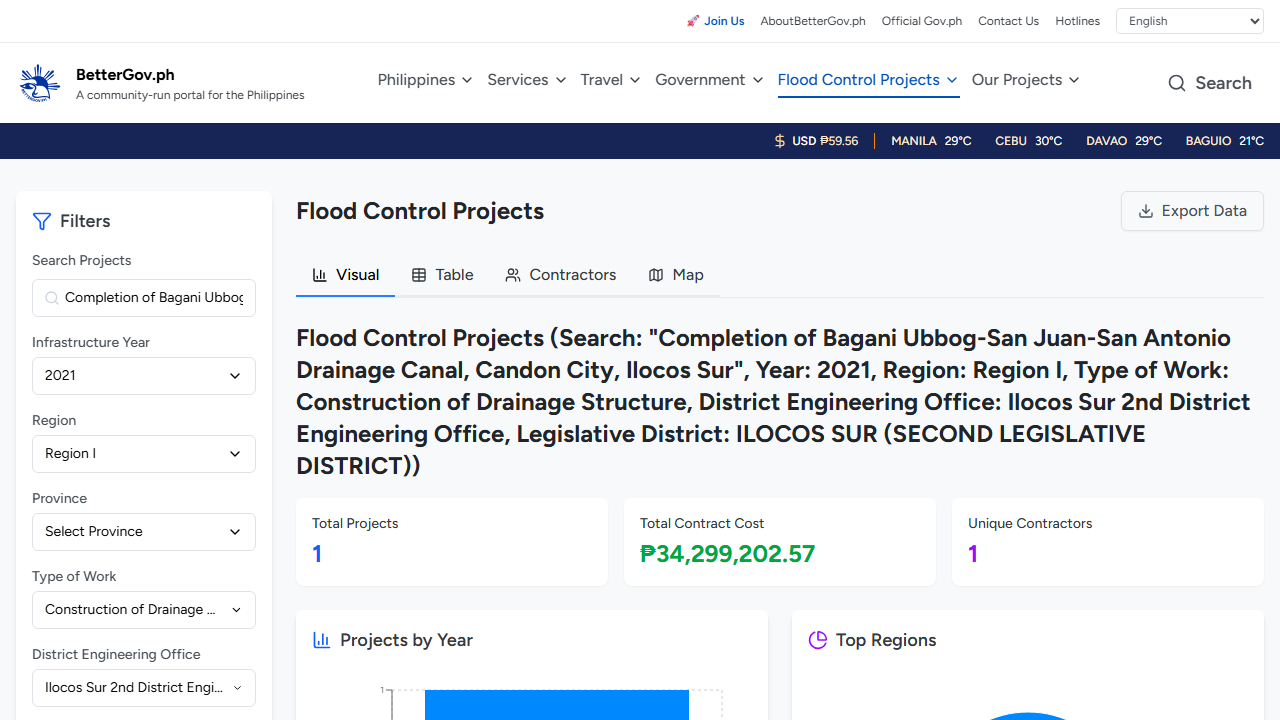
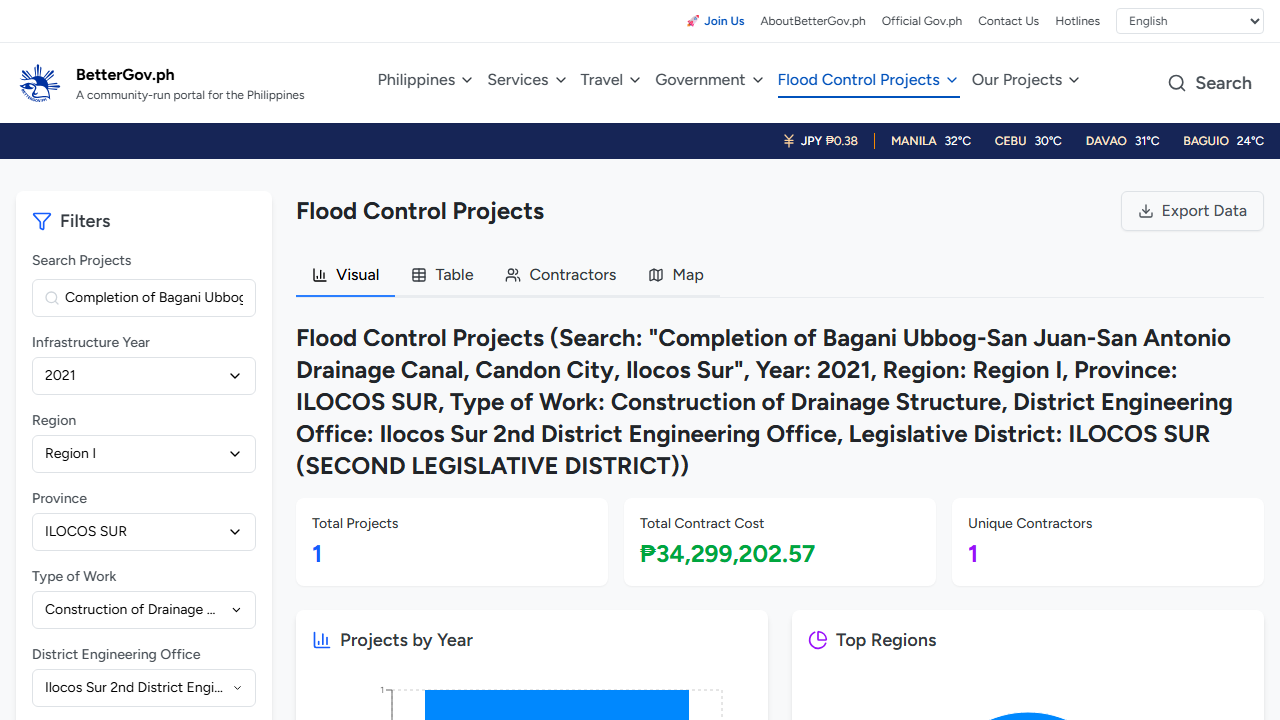
as of LCS4E8

diff --git a/tests/bgov-fcp.spec.ts b/tests/bgov-fcp.spec.ts
@@ -1,6 +1,7 @@
 import { test, expect } from '@playwright/test'
-import { FCP } from '../pages/bgov-fcp'
+import { FCP_Visual } from '../pages/bgov-fcp-visual';
 import { BGovHome } from '../pages/bgov-home';
+import { FCP_Table } from '../pages/bgov-fcp-table';
 
 test.describe('Flood Control Projects E2E Tests', () => {
     test.beforeEach(async ({ page }) => {
@@ -17,7 +18,7 @@ test.describe('Flood Control Projects E2E Tests', () => {
             Test Title: Verify end URL and tabs of BGovPH's Flood Control Projects Page
             Pre-requisites: none
         */
-        const fcp = new FCP(page);
+        const fcp = new FCP_Visual(page);
         const testID = testInfo.title
 
         // Assertion: URL ends with "/flood-control-projects"
@@ -41,7 +42,7 @@ test.describe('Flood Control Projects E2E Tests', () => {
             Test Title: Verify Visual tab filters of BGovPH's Flood Control Projects Page
             Pre-requisites: none
         */
-        const fcp = new FCP(page);
+        const fcp = new FCP_Visual(page);
         const testID = testInfo.title
 
         // Navigate to Visual Tab
@@ -103,7 +104,6 @@ test.describe('Flood Control Projects E2E Tests', () => {
             path: `test-evidences/${testID}/fcp-filters-legislative-district.png`
         });
     });
-    // TODO: testing filters at Table Tab
     test('FCP-TC003', async ({ page }, testInfo) => {
         /* 
             Date Created: March 20, 2026
@@ -112,7 +112,7 @@ test.describe('Flood Control Projects E2E Tests', () => {
             Test Title: Verify Table tab filters of BGovPH's Flood Control Projects Page
             Pre-requisites: none
         */
-        const fcp = new FCP(page);
+        const fcp = new FCP_Table(page);
         const testID = testInfo.title
 
         // Navigate to Table Tab
@@ -189,11 +189,12 @@ test.describe('Flood Control Projects E2E Tests', () => {
                 Legislative District: ILOCOS SUR (SECOND LEGISLATIVE DISTRICT)
         */
 
-        const fcp = new FCP(page)
+        const fcp = new FCP_Visual(page)
         const testID = testInfo.title
         const project = 'Completion of Bagani Ubbog-San Juan-San Antonio Drainage Canal, Candon City, Ilocos Sur'
         const year = 2021
         const region = 'Region I'
+        const province = 'ILOCOS SUR'
         const work = 'Construction of Drainage Structure'
         const deo = 'Ilocos Sur 2nd District Engineering Office'
         const district ='ILOCOS SUR (SECOND LEGISLATIVE DISTRICT)'
@@ -204,6 +205,7 @@ test.describe('Flood Control Projects E2E Tests', () => {
         await fcp.searchProjectsField.fill(project)
         await fcp.selectItemFromDropdown(fcp.infrastructureYearDropdown, String(year))
         await fcp.selectItemFromCombobox(fcp.regionDropdown, region)
+        await fcp.selectItemFromCombobox(fcp.provinceDropdown, province)
         await fcp.selectItemFromCombobox(fcp.typeOfWorkDropdown, work)
         await fcp.selectItemFromCombobox(fcp.deoDropdown, deo)
         await fcp.selectItemFromCombobox(fcp.legislativeDistrictDropdown, district)
@@ -215,10 +217,90 @@ test.describe('Flood Control Projects E2E Tests', () => {
         const filterText = await page.locator("//div[@class='flex-1']/h1").textContent()
         expect(filterText).toContain(`Search: "${project}"`)
         expect(filterText).toContain(`Year: ${year}`)
+        expect(filterText).toContain(`Province: ${province}`)
         expect(filterText).toContain(`Region: ${region}`)
         expect(filterText).toContain(`Type of Work: ${work}`)
         expect(filterText).toContain(`District Engineering Office: ${deo}`)
         expect(filterText).toContain(`Legislative District: ${district}`)
+
+        // Generate Test Evidence/s
+        await page.screenshot({
+            path: `test-evidences/${testID}/fcp-results.png`
+        });
+    });
+    test('FCP-TC005', async ({ page }, testInfo) => {
+        /* 
+            Date Created: March 28, 2026
+            Automation Engineer: Biendroid
+            Test ID: FCP-TC005
+            Test Title: Verify search results to given filters of BGovPH's Flood Control Projects Page in Table tab
+            Pre-requisites: 
+                Search Projects: Completion of Bagani Ubbog-San Juan-San Antonio Drainage Canal, Candon City, Ilocos Sur
+                Infrastructure Year: 2021
+                Region: Region I
+                Type of Work: Construction of Drainage Structure
+                District Engineering Office: Ilocos Sur 2nd District Engineering Office
+                Legislative District: ILOCOS SUR (SECOND LEGISLATIVE DISTRICT)
+        */
+
+        const fcp = new FCP_Table(page)
+        const testID = testInfo.title
+        const project = 'Completion of Bagani Ubbog-San Juan-San Antonio Drainage Canal, Candon City, Ilocos Sur'
+        const year = 2021
+        const province = 'ILOCOS SUR'
+        const region = 'Region I'
+        const work = 'Construction of Drainage Structure'
+        const deo = 'Ilocos Sur 2nd District Engineering Office'
+        const district ='ILOCOS SUR (SECOND LEGISLATIVE DISTRICT)'
+        
+        // Navigate to Table tab
+        await fcp.tableTab.click();
+        // Provide values to filters
+        await fcp.searchProjectsField.fill(project)
+        await fcp.selectItemFromDropdown(fcp.infrastructureYearDropdown, String(year))
+        await fcp.selectItemFromCombobox(fcp.regionDropdown, region)
+        await fcp.selectItemFromCombobox(fcp.provinceDropdown, province)
+        await fcp.selectItemFromCombobox(fcp.typeOfWorkDropdown, work)
+        await fcp.selectItemFromCombobox(fcp.deoDropdown, deo)
+        await fcp.selectItemFromCombobox(fcp.legislativeDistrictDropdown, district)
+        await page.evaluate(() => {
+            window.scrollTo(0, 0)
+        });
+
+        // Get filter text heading and filter tags
+        const filterText = await fcp.appliedFilters.getByRole('heading').textContent()
+        const searchTagText = await fcp.appliedFilters.getByText(new RegExp(project)).last().textContent()
+        const yearTagText = await fcp.appliedFilters.getByText(new RegExp(String(year))).last().textContent()
+        const regionTagText = await fcp.appliedFilters.getByText(new RegExp(region)).last().textContent()
+        const provinceTagText = await fcp.appliedFilters.getByText(new RegExp(province)).nth(1).textContent()
+        const typeOfWorkTagText = await fcp.appliedFilters.getByText(new RegExp(work)).last().textContent()
+        const deoTagText = await fcp.appliedFilters.getByText(new RegExp(deo)).last().textContent()
+        const legislativeDistrictTagText = await fcp.appliedFilters.getByText(new RegExp(province)).last().textContent()
+
+        // const searchTagText = await fcp.appliedFilters.locator("//div/span[1]").textContent()
+        // const yearTagText = await fcp.appliedFilters.locator("//div/span[2]").textContent()
+        // const regionTagText = await fcp.appliedFilters.locator("//div/span[3]").textContent()
+        // const provinceTagText = await fcp.appliedFilters.locator("//div/span[4]").textContent()
+        // const typeOfWorkTagText = await fcp.appliedFilters.locator("//div/span[5]").textContent()
+        // const deoTagText = await fcp.appliedFilters.locator("//div/span[6]").textContent()
+        // const legislativeDistrictTagText = await fcp.appliedFilters.locator("//div/span[7]").textContent()
+
+        // Assert according to filter text heading
+        expect(filterText).toContain(`Search: "${project}"`)
+        expect(filterText).toContain(`Year: ${year}`)
+        expect(filterText).toContain(`Region: ${region}`)
+        expect(filterText).toContain(`Province: ${province}`)
+        expect(filterText).toContain(`Type of Work: ${work}`)
+        expect(filterText).toContain(`District Engineering Office: ${deo}`)
+        expect(filterText).toContain(`Legislative District: ${district}`)
+        // Assert according to filter tags
+        expect(searchTagText).toEqual(`Search: "${project}"`)
+        expect(yearTagText).toEqual(`Year: ${year}`)
+        expect(regionTagText).toEqual(`Region: ${region}`)
+        expect(provinceTagText).toEqual(`Province: ${province}`)
+        expect(typeOfWorkTagText).toEqual(`Type of Work: ${work}`)
+        expect(deoTagText).toEqual(`District Engineering Office: ${deo}`)
+        expect(legislativeDistrictTagText).toEqual(`Legislative District: ${district}`)
 
         // Generate Test Evidence/s
         await page.screenshot({

diff --git a/templates/bgov-fcp.ts b/templates/bgov-fcp.ts
@@ -1,0 +1,129 @@
+import { expect, Page, Locator } from '@playwright/test'
+
+export abstract class FCP {
+    // Declare Members
+    readonly page: Page;
+    readonly endURL: string;
+    readonly visualTab: Locator;
+    readonly tableTab: Locator;
+    readonly contractorsTab: Locator;
+    readonly mapTab: Locator;
+    readonly filtersForm: Locator;
+    readonly searchProjects: Locator;
+    readonly searchProjectsLabel: Locator;
+    readonly searchProjectsField: Locator;
+    readonly infrastructureYear: Locator;
+    abstract readonly infrastructureYearLabel: Locator;
+    readonly infrastructureYearDropdown: Locator;
+    readonly region: Locator;
+    readonly regionLabel: Locator;
+    readonly regionDropdown: Locator;
+    readonly province: Locator;
+    readonly provinceLabel: Locator;
+    readonly provinceDropdown: Locator;
+    readonly typeOfWork: Locator;
+    readonly typeOfWorkLabel: Locator;
+    readonly typeOfWorkDropdown: Locator;
+    readonly deo: Locator;
+    readonly deoLabel: Locator;
+    readonly deoDropdown: Locator;
+    readonly legislativeDistrict: Locator;
+    readonly legislativeDistrictLabel: Locator;
+    readonly legislativeDistrictDropdown: Locator;
+
+    // Declare Constructor
+    constructor(page: Page) {
+        this.page = page
+        this.endURL = '/flood-control-projects'
+        this.visualTab = page.getByRole('link', { name: 'Visual', exact: true })
+        this.tableTab = page.getByRole('link', { name: 'Table', exact: true })
+        this.contractorsTab = page.getByRole('link', { name: 'Contractors', exact: true })
+        this.mapTab = page.getByRole('link', { name: 'Map', exact: true })
+        // Locate the filters form (base webelement)
+        this.filtersForm = page.locator("//div[contains(@class, 'bg-gray-50')]/div/div/div[1]")
+        // Locate the Search Projects div that has a text
+        // containing (by the use of regex) "Search Projects" 
+        // and locate also the label and field
+        this.searchProjects = this.filtersForm.locator('div', { hasText: /\bSearch Projects\b/ });
+        this.searchProjectsLabel = this.searchProjects.getByText('Search Projects')
+        this.searchProjectsField = this.searchProjects.getByPlaceholder('Projects, contractors, municipality, province, region...');
+        // Locate the Infrastructure Year div that has a text
+        // containing (by the use of regex) "Infrastructure Year" 
+        // and locate also the label and field
+        this.infrastructureYear = this.filtersForm.locator('//div[2]/div[2]')
+        // Locate the Search Projects div that has a text
+        // containing (by the use of regex) "Search Projects" 
+        // and locate also the label and field
+        this.searchProjects = this.filtersForm.locator('div', { hasText: /\bSearch Projects\b/ });
+        this.searchProjectsLabel = this.searchProjects.getByText('Search Projects')
+        this.searchProjectsField = this.searchProjects.getByPlaceholder('Projects, contractors, municipality, province, region...');
+        // Locate the Infrastructure Year div that has a text
+        // containing (by the use of regex) "Infrastructure Year" 
+        // and locate also the label and field
+        this.infrastructureYear = this.filtersForm.locator('//div[2]/div[2]')
+        this.infrastructureYearDropdown = this.infrastructureYear.getByRole('button', { name: 'Select Year'})
+        // Locate the Region div that has a text
+        // containing (by the use of regex) "Region" 
+        // and locate also the label and field
+        this.region = this.filtersForm.locator('//div[2]/div[3]')
+        this.regionLabel = this.region.getByText('Region').first()
+        this.regionDropdown = this.region.getByRole('button', { name: 'Select Region'})
+        // Locate the Province div that has a text
+        // containing (by the use of regex) "Province" 
+        // and locate also the label and field
+        this.province = this.filtersForm.locator('//div[2]/div[4]')
+        this.provinceLabel = this.province.getByText('Province').first()
+        this.provinceDropdown = this.province.getByRole('button', { name: 'Select Province'})
+        // Locate the Type of Work div that has a text
+        // containing (by the use of regex) "Type of Work" 
+        // and locate also the label and field
+        this.typeOfWork = this.filtersForm.locator('//div[2]/div[5]')
+        this.typeOfWorkLabel = this.typeOfWork.getByText('Type of Work').first()
+        this.typeOfWorkDropdown = this.typeOfWork.getByRole('button', { name: 'Select Type of Work'})
+        // Locate the Type of District Engineering Office div that has a text
+        // containing (by the use of regex) "District Engineering Office" 
+        // and locate also the label and field
+        this.deo = this.filtersForm.locator('//div[2]/div[6]')
+        this.deoLabel = this.deo.getByText('District Engineering Office')
+        this.deoDropdown = this.deo.getByRole('button', { name: 'Select DEO'})
+        // Locate the Type of Legislative District div that has a text
+        // containing (by the use of regex) "Legislative District" 
+        // and locate also the label and field
+        this.legislativeDistrict = this.filtersForm.locator('//div[2]/div[7]')
+        this.legislativeDistrictLabel = this.legislativeDistrict.getByText('Legislative District').first()
+        this.legislativeDistrictDropdown = this.legislativeDistrict.getByRole('button', { name: 'Select Legislative District'})
+    }
+
+    // Declare Methods
+    async verifyFilterSectionIfVisible(div:Locator, label: Locator, input: Locator) {
+        /*
+        * This asynchronous method verifies a particular filter section if visible:
+        *   1. Section div
+        *   2. Label/Heading
+        *   3. Inputs: dropdowns, text fields, etc. 
+        */
+
+        await expect(div).toBeVisible();
+        await expect(label).toBeVisible();
+        await expect(input).toBeVisible();
+    }
+    async selectItemFromDropdown(dropdown: Locator, item: string) {
+        /*
+        * This asynchronous method selects an
+        * option/item from a specific dropdown.
+        */
+
+        await dropdown.click()
+        await this.page.getByRole('button', { name: item }).click()
+    }
+    async selectItemFromCombobox(dropdown: Locator, item: string) {
+        /*
+        * This asynchronous method searches and selects an
+        * option/item from a specific combobox.
+        */
+
+        await dropdown.click()
+        await this.page.getByPlaceholder('Search...').fill(item)
+        await this.page.locator(`//button/div/span[text()='${item}']`).click()
+    }
+} 

diff --git a/pages/bgov-fcp-table.ts b/pages/bgov-fcp-table.ts
@@ -1,0 +1,17 @@
+import { Locator, Page } from "@playwright/test";
+import { FCP } from "../templates/bgov-fcp"
+
+export class FCP_Table extends FCP {
+    // Properties
+    readonly infrastructureYearLabel: Locator;
+    readonly appliedFilters: Locator;
+    readonly filterText: Locator;
+
+    // Declare Constructor
+    constructor(page: Page) {
+        super(page)
+        this.infrastructureYearLabel = this.infrastructureYear.getByText('Year').first()
+        this.appliedFilters = page.locator("//div[@class='p-6']")
+        this.filterText = this.appliedFilters.getByRole('heading')
+    }
+} 

diff --git a/pages/bgov-fcp-visual.ts b/pages/bgov-fcp-visual.ts
@@ -1,0 +1,15 @@
+import { Locator, Page } from "@playwright/test";
+import { FCP } from "../templates/bgov-fcp"
+
+export class FCP_Visual extends FCP {
+    // Properties
+    readonly filtersForm: Locator;
+    readonly infrastructureYearLabel: Locator;
+
+    // Declare Constructor
+    constructor(page: Page) {
+        super(page)
+        this.filtersForm = page.locator('//div[@class="bg-gray-50"]/div/div/div[1]')
+        this.infrastructureYearLabel = this.infrastructureYear.getByText('Infrastructure Year')
+    }
+} 
